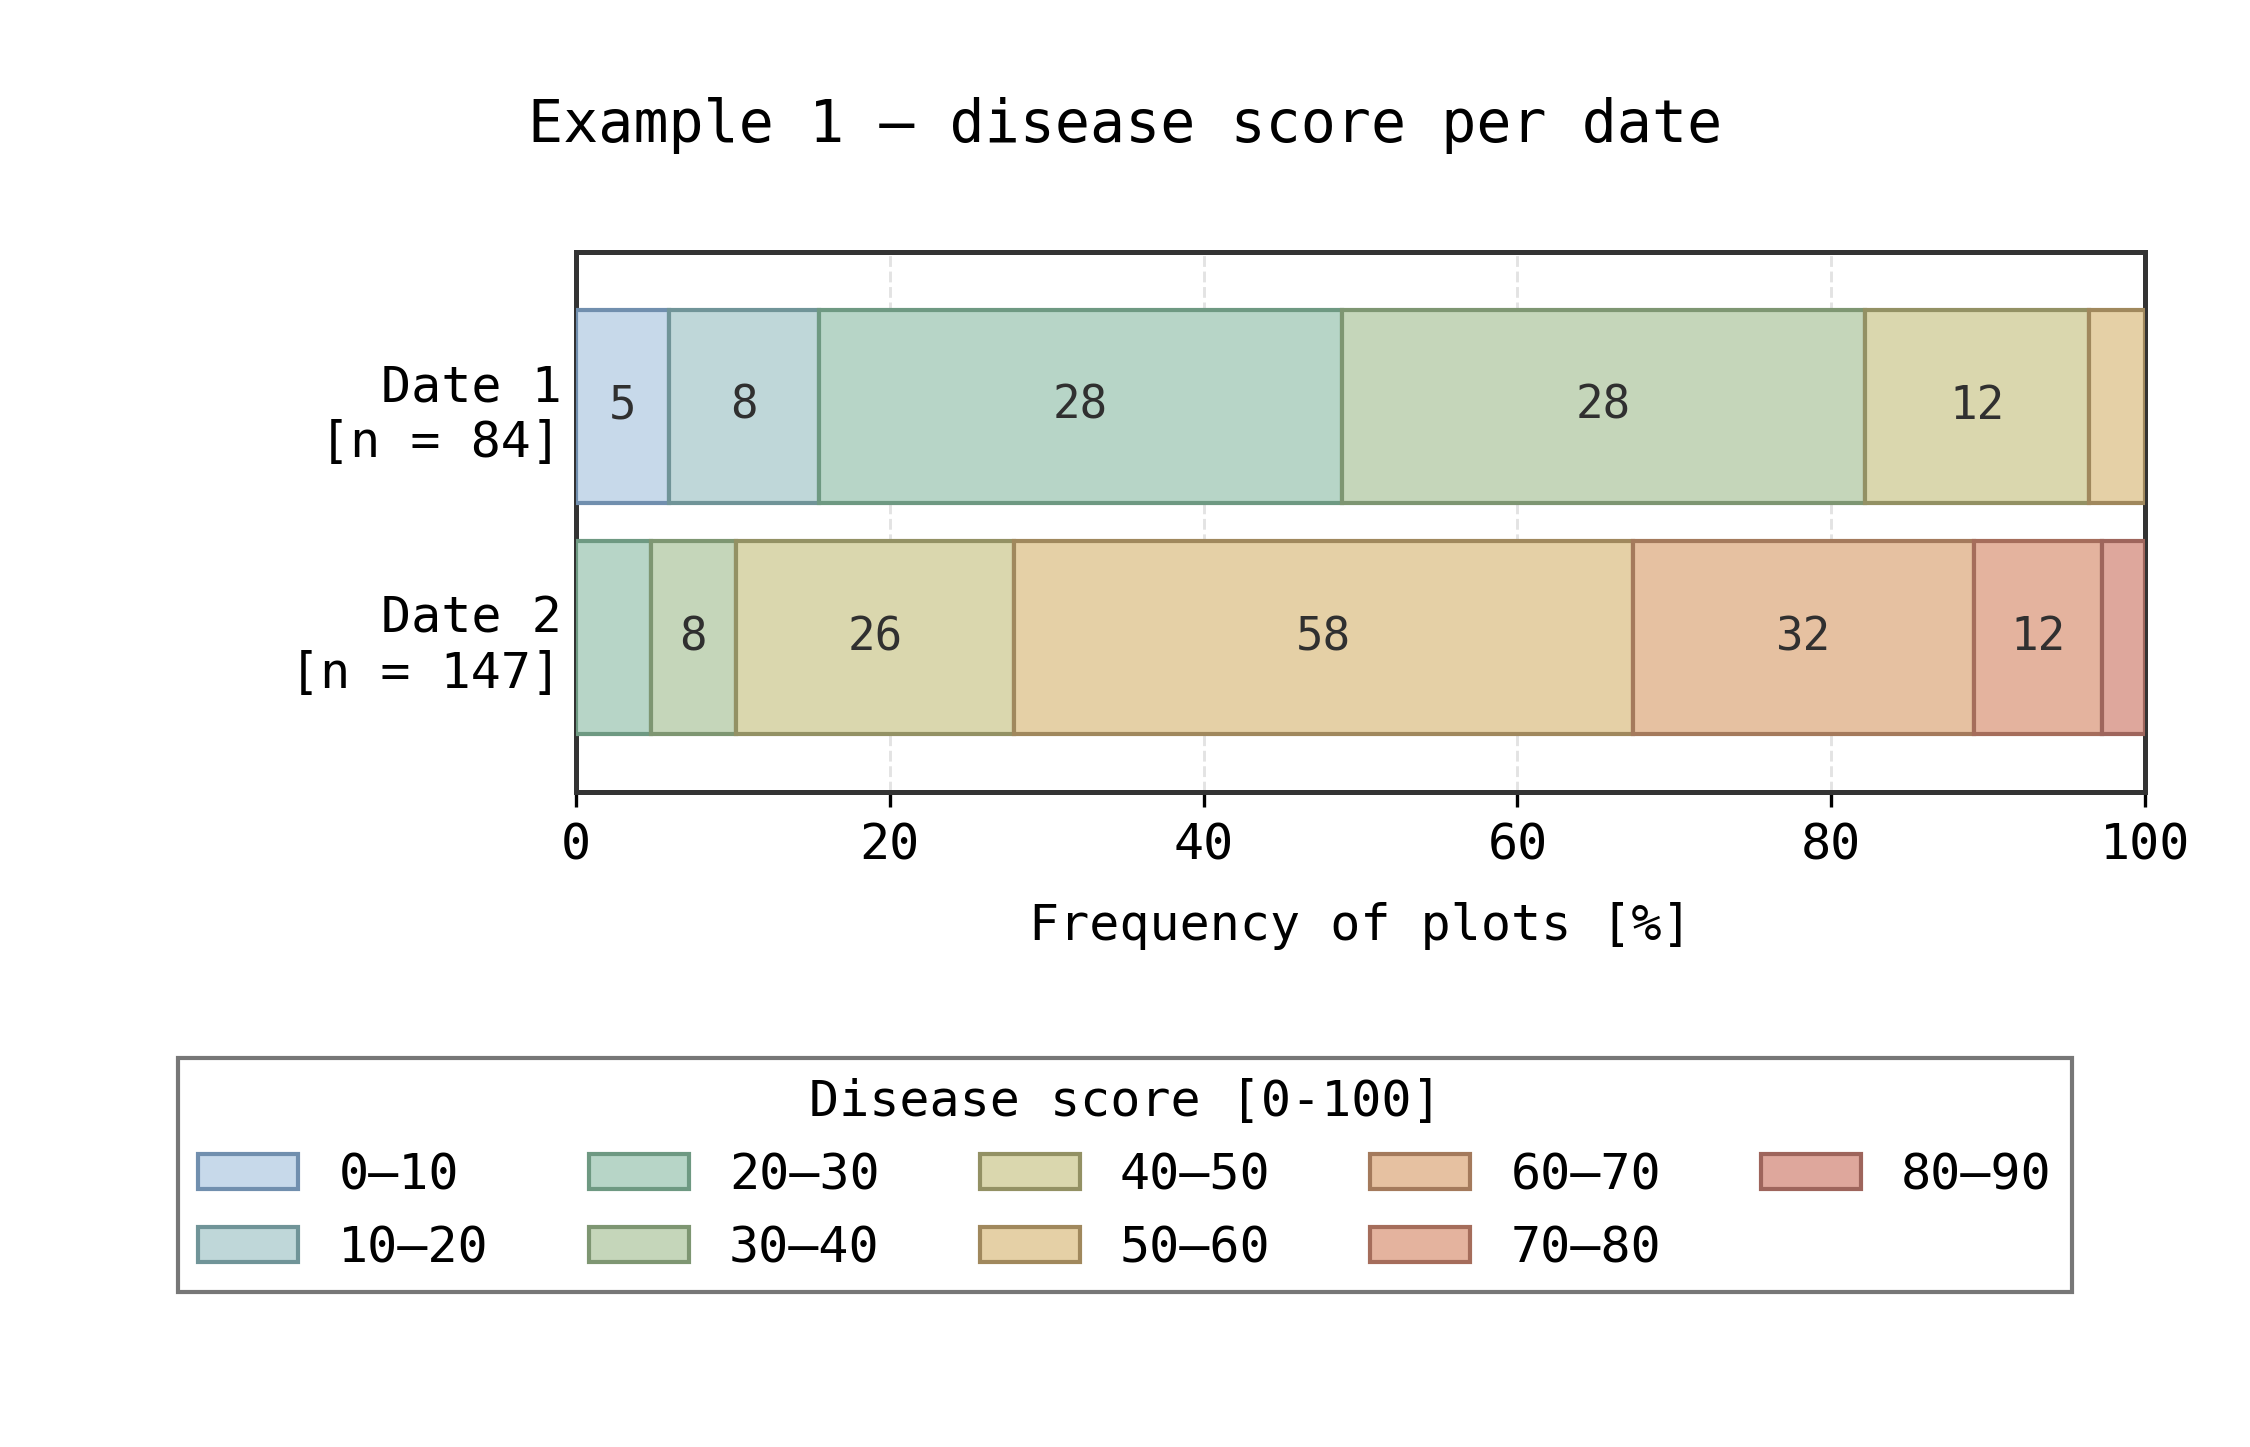
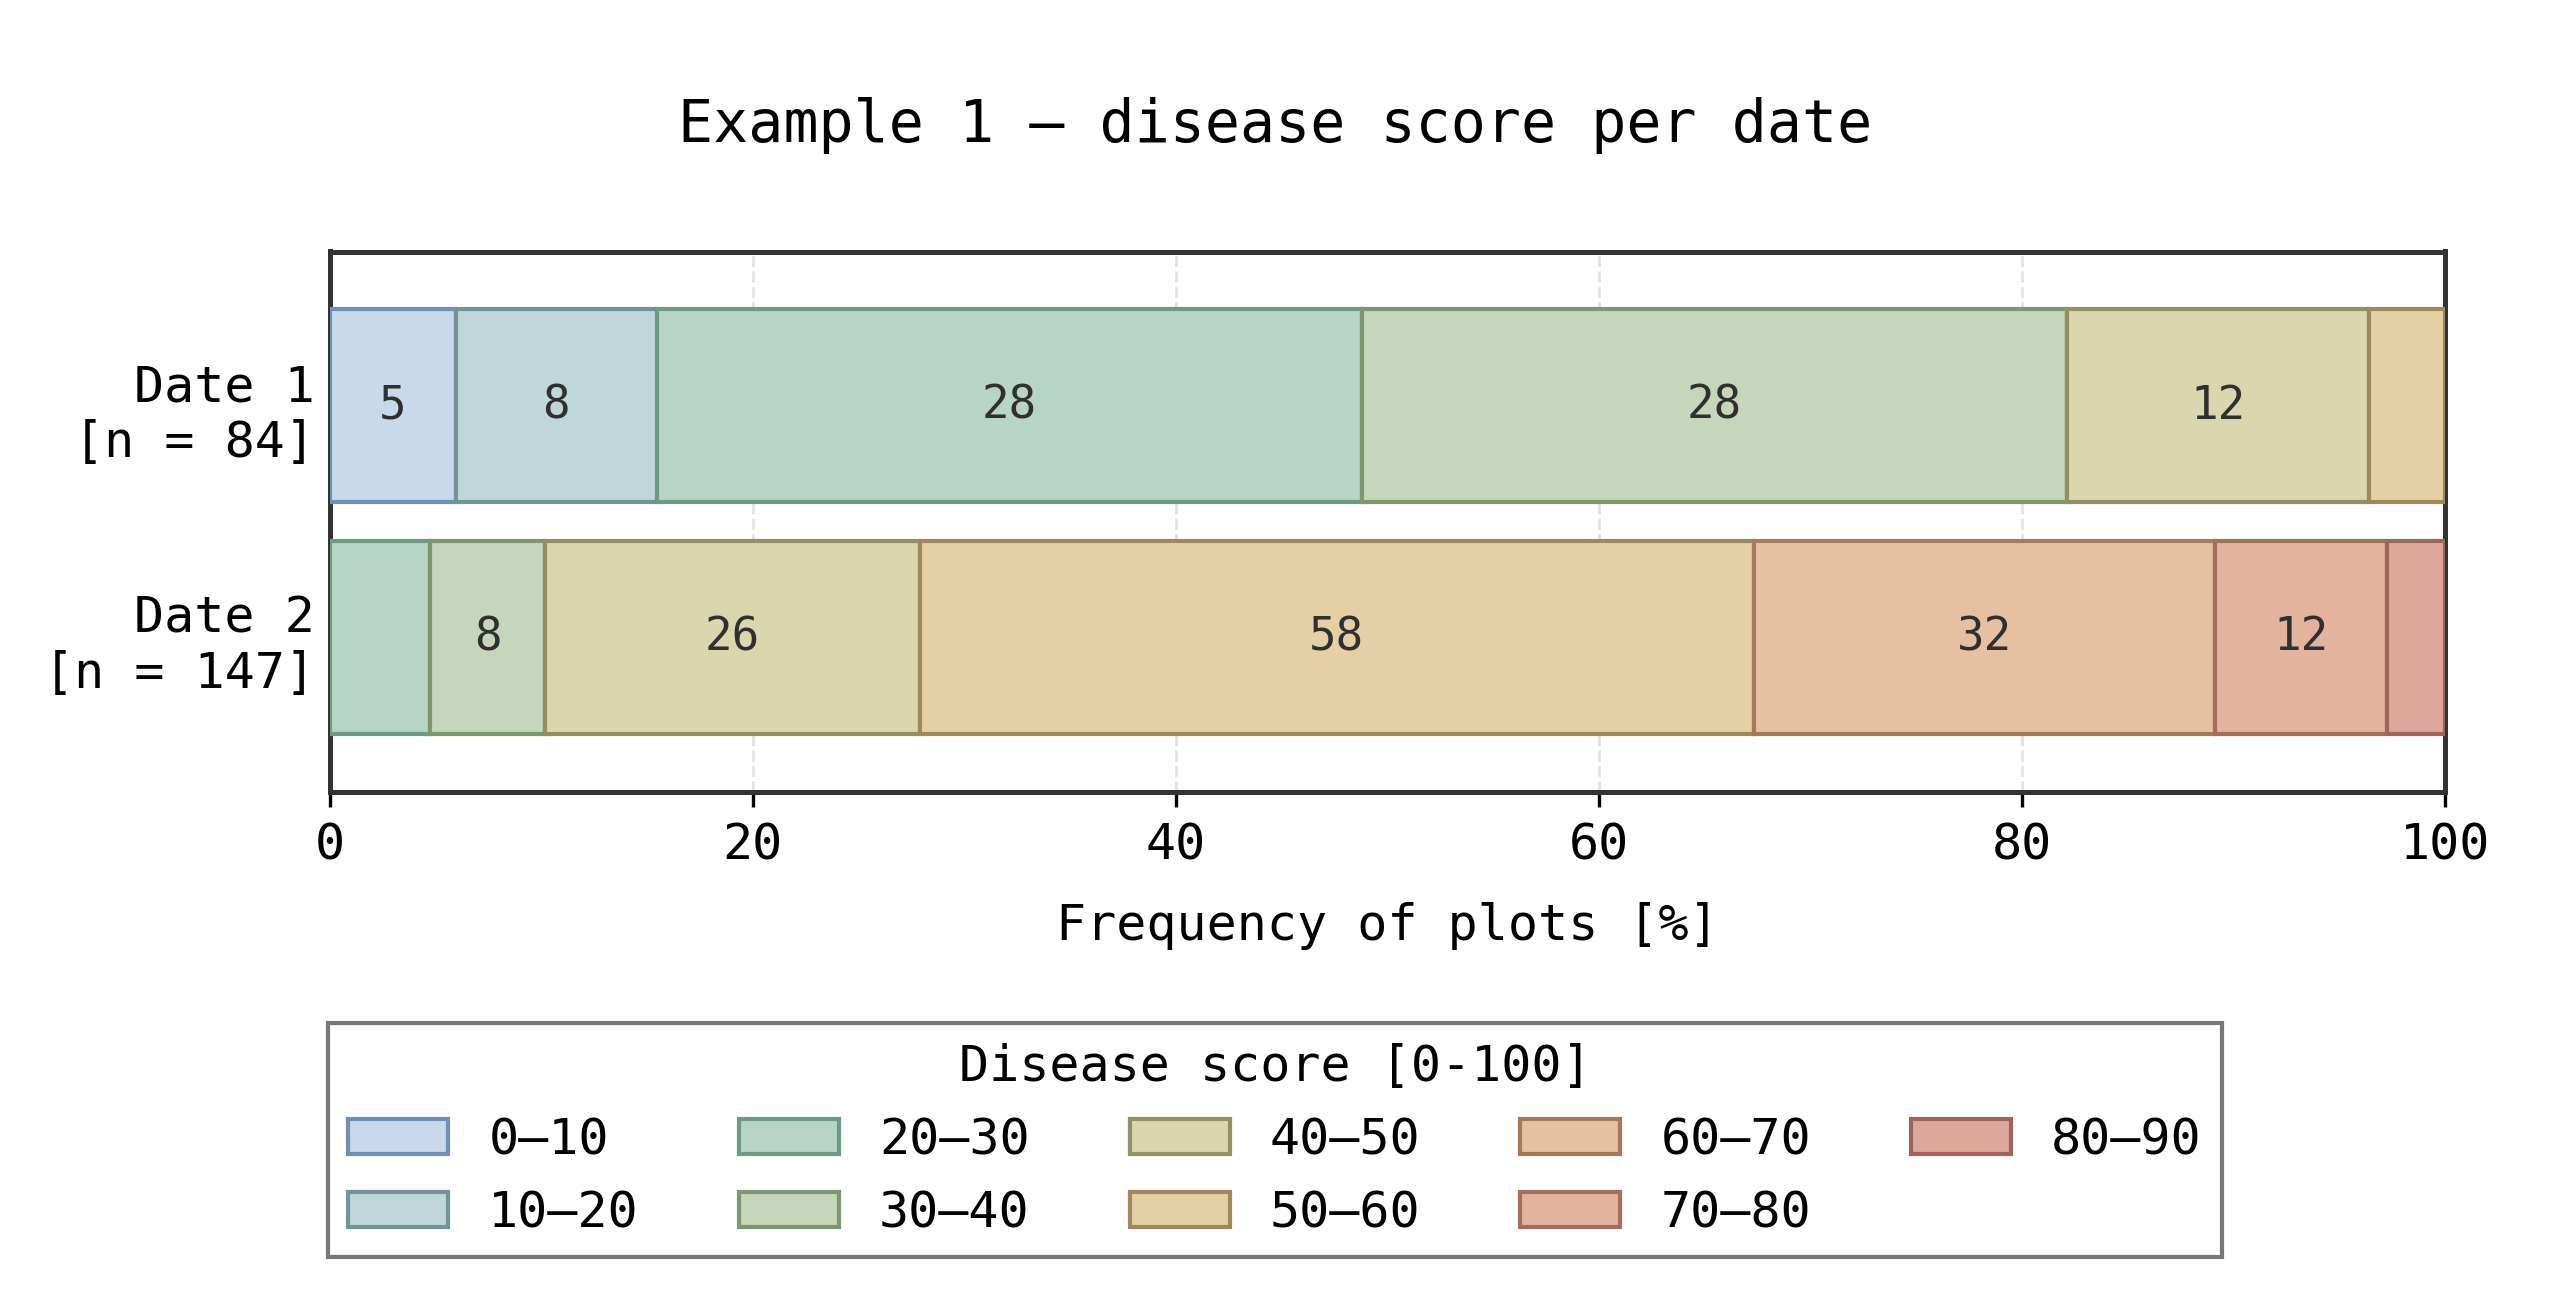
Tighter distribution charts; example 2 map shows where the field ends
- plot_distribution measures the date labels and the legend after drawing
  and sizes the left and bottom space to fit them (a legend_height that is
  set explicitly is still used as given)
- example distribution charts 8.5 in wide; README shows them at 62%
- example 2: the field_map picture includes the empty row 12 below the
  plots; plot rows are 37.5 pt so the picture keeps its height

diff --git a/src/field_design_extraction/figures.py b/src/field_design_extraction/figures.py
@@ -505,9 +505,11 @@ def plot_distribution(
     groups = list(percent.index)
 
     with _style(font_size):
-        # --- fixed bands (grow with the text): title, bars, x axis, legend; date labels on the left
+        # --- bands (grow with the text): title, bars, x axis, legend; date labels on the left.
+        #     Drawn once with estimates, then the label width and legend height are measured.
         k = font_size / FONT_SIZE
-        if legend_height is None:
+        fixed_legend = legend_height is not None
+        if not fixed_legend:
             rows = -(-len(styles) // _legend_columns(len(styles)))
             legend_height = (0.3 * (rows + 1) + 0.3) * k
         title_band = TITLE_BAND * k
@@ -552,15 +554,16 @@ def plot_distribution(
         for spine in ax.spines.values():
             spine.set_color("#333333")
             spine.set_linewidth(1.2)
+        title_text = None
         if title:
-            fig.text(0.5, 1 - title_band / 2 / fig_h, title, ha="center", va="center",
-                     fontsize=font_size + 2)
+            title_text = fig.text(0.5, 1 - title_band / 2 / fig_h, title, ha="center", va="center",
+                                  fontsize=font_size + 2)
 
         handles = [
             Patch(facecolor=fill, edgecolor=edge, hatch=hatch, label=names.get(v, _format(v)))
             for v, (fill, edge, hatch) in styles.items()
         ]
-        fig.legend(
+        legend = fig.legend(
             handles=handles,
             title=legend_title or value,
             loc="upper center",
@@ -570,6 +573,30 @@ def plot_distribution(
             fancybox=False,
             edgecolor="#555555",
         )
+
+        # --- measured bands: date labels on the left, x axis below the bars, legend at the bottom
+        fig.canvas.draw()
+        renderer = fig.canvas.get_renderer()
+        axes_box = ax.get_window_extent(renderer)
+        label_left = min(t.get_window_extent(renderer).x0 for t in ax.get_yticklabels())
+        left_band = (axes_box.x0 - label_left) / fig.dpi + 0.15
+        axis_band = (axes_box.y0 - ax.xaxis.label.get_window_extent(renderer).y0) / fig.dpi + 0.15 * k
+        legend_pad = legend.borderaxespad * legend.prop.get_size_in_points() / 72
+        if not fixed_legend:
+            legend_height = legend.get_window_extent(renderer).height / fig.dpi + legend_pad + 0.18
+        fig_h = title_band + bars_h + axis_band + legend_height
+
+        fig.set_size_inches(width, fig_h)
+        ax.set_position([
+            left_band / width, (legend_height + axis_band) / fig_h,
+            (width - left_band - right_band) / width, bars_h / fig_h,
+        ])
+        legend.set_bbox_to_anchor(
+            (0.5, (legend_height - (0.05 * k if fixed_legend else 0)) / fig_h),
+            transform=fig.transFigure,
+        )
+        if title_text is not None:
+            title_text.set_position((0.5, 1 - title_band / 2 / fig_h))
         fig.fixed_size = True
 
     return fig

diff --git a/examples/example_2_one_sheet_per_trial.py b/examples/example_2_one_sheet_per_trial.py
@@ -27,7 +27,7 @@ FIGURES = HERE / "output" / "example_2" / "figures"
 
 # --- pictures of the sheets as they look in Excel
 fde.save_figure(
-    fde.plot_sheet(WORKBOOK, "field_map", "A1:Z11", title="Input workbook — sheet field_map"),
+    fde.plot_sheet(WORKBOOK, "field_map", "A1:Z12", title="Input workbook — sheet field_map"),
     FIGURES / "input_field_map.png", dpi=150,
 )
 fde.save_figure(
@@ -119,7 +119,7 @@ rating_sources = {
             "map_title": "Example 2 — disease severity, {date}",
             "bins": list(range(0, 101, 10)),
             # --- distribution chart: narrower, with larger text
-            "width": 7.5,
+            "width": 8.5,
             "font_size": 12,
         },
     },

diff --git a/examples/create_example_workbooks.py b/examples/create_example_workbooks.py
@@ -149,7 +149,7 @@ def example_2():
     for column in range(1, column0):
         ws.column_dimensions[get_column_letter(column)].width = 5
     for row in range(first_row, first_row + n_rows):
-        ws.row_dimensions[row].height = 39.375
+        ws.row_dimensions[row].height = 37.5
 
     # --- ratings: metadata rows, header on row 7, MIN/MAX rows below the table
     for name, plots in trial_plots.items():

diff --git a/examples/example_1_merged_plots.py b/examples/example_1_merged_plots.py
@@ -98,7 +98,7 @@ rating_sources = {
             "coverage_title": "Example 1 — plots assessed, {date}",
             "bins": list(range(0, 101, 10)),
             # --- distribution chart: narrower, with larger text
-            "width": 7.5,
+            "width": 8.5,
             "font_size": 12,
         },
     },

diff --git a/README.md b/README.md
@@ -155,7 +155,7 @@ Disease score of each plot on each date (grey: not assessed on that date):
 
 Share of the assessed plots in each score class, per date (numbers inside the bars: plots):
 
-<img src="docs/images/example_1_distribution.png" width="55%">
+<img src="docs/images/example_1_distribution.png" width="62%">
 
 ### Example 2 — one cell per plot, one ratings sheet per trial
 
@@ -202,7 +202,7 @@ Disease severity of each plot:
 
 Share of the plots in each severity class (numbers inside the bar: plots):
 
-<img src="docs/images/example_2_distribution.png" width="55%">
+<img src="docs/images/example_2_distribution.png" width="62%">
 
 ## Settings
 
@@ -325,7 +325,8 @@ Make plots wider than tall when rows are farther apart than plots within a row, 
 
 Size: the design, coverage and map figures of a layout all have the same size and plot shapes (the map is
 drawn at a fixed scale, with fixed space for the title and the legend — `legend_height`, in inches); the
-distribution chart takes the same width, so the figures line up side by side.
+distribution chart takes the same width (or the `width` in its source's `"figure"` entry), so the figures
+line up side by side; its height fits the dates and the legend.
 
 Gaps between blocks: `gaps` = (horizontal, vertical) size; `gap_rule` `"any"` (default) puts a gap wherever
 blocks meet (at least 2 neighbouring plots), but the gap crosses the whole figure and may cut other blocks;
